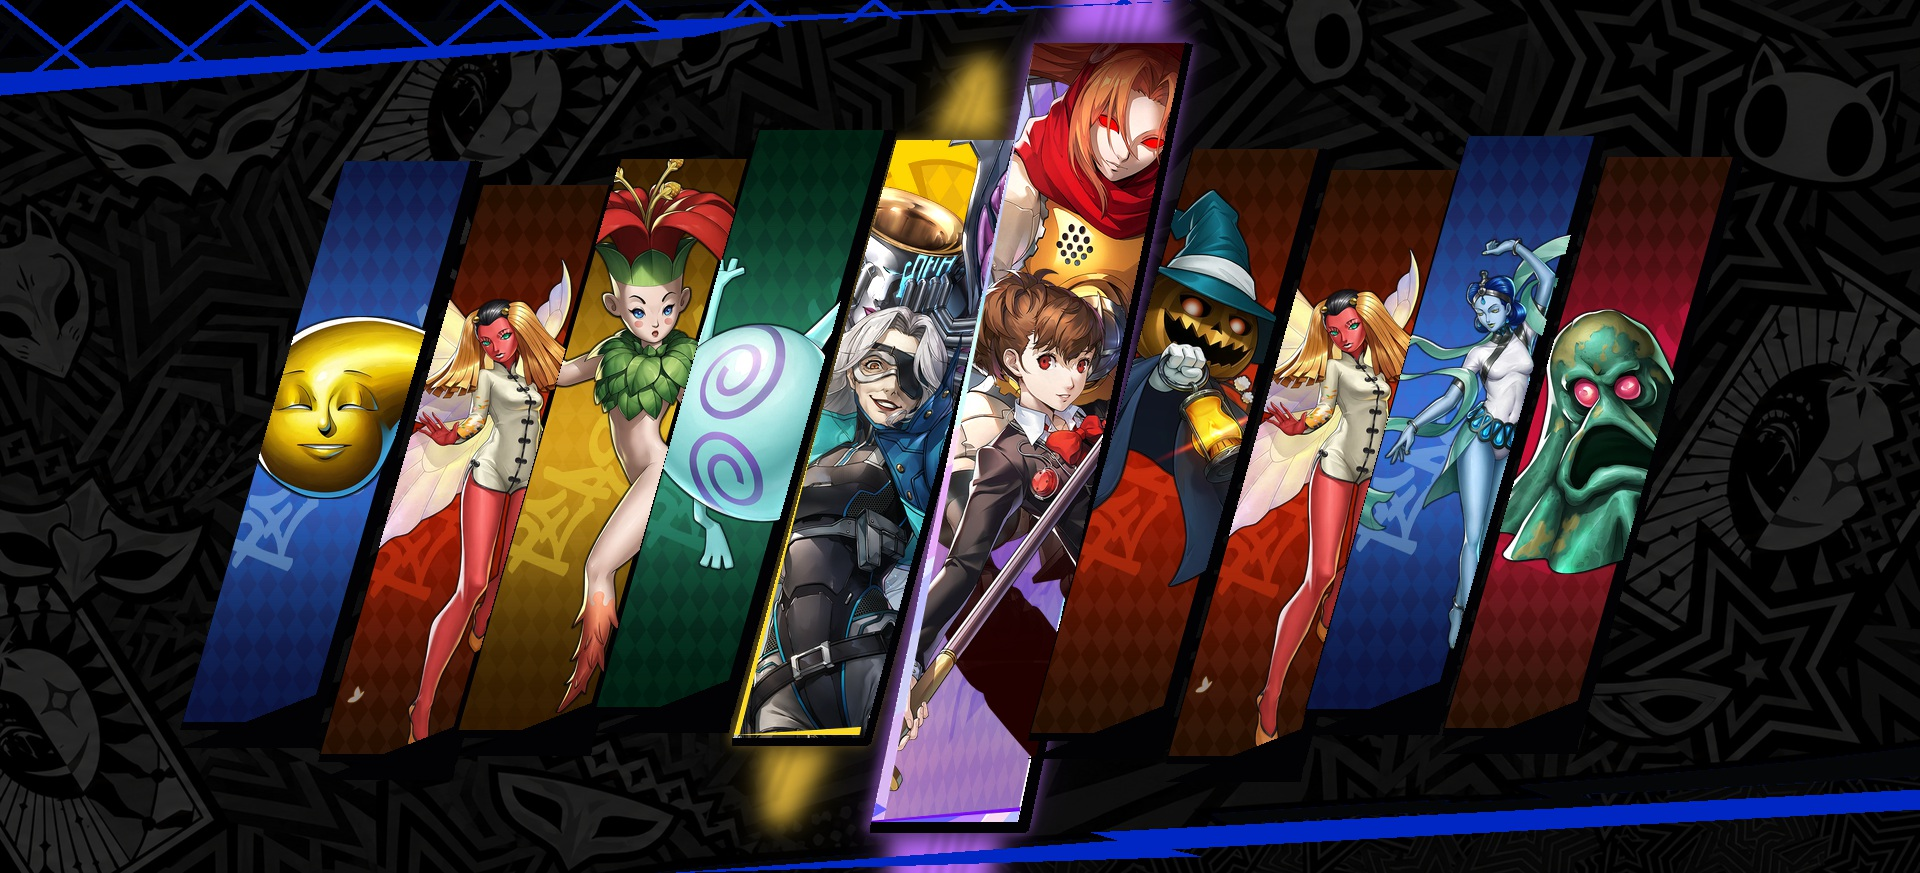
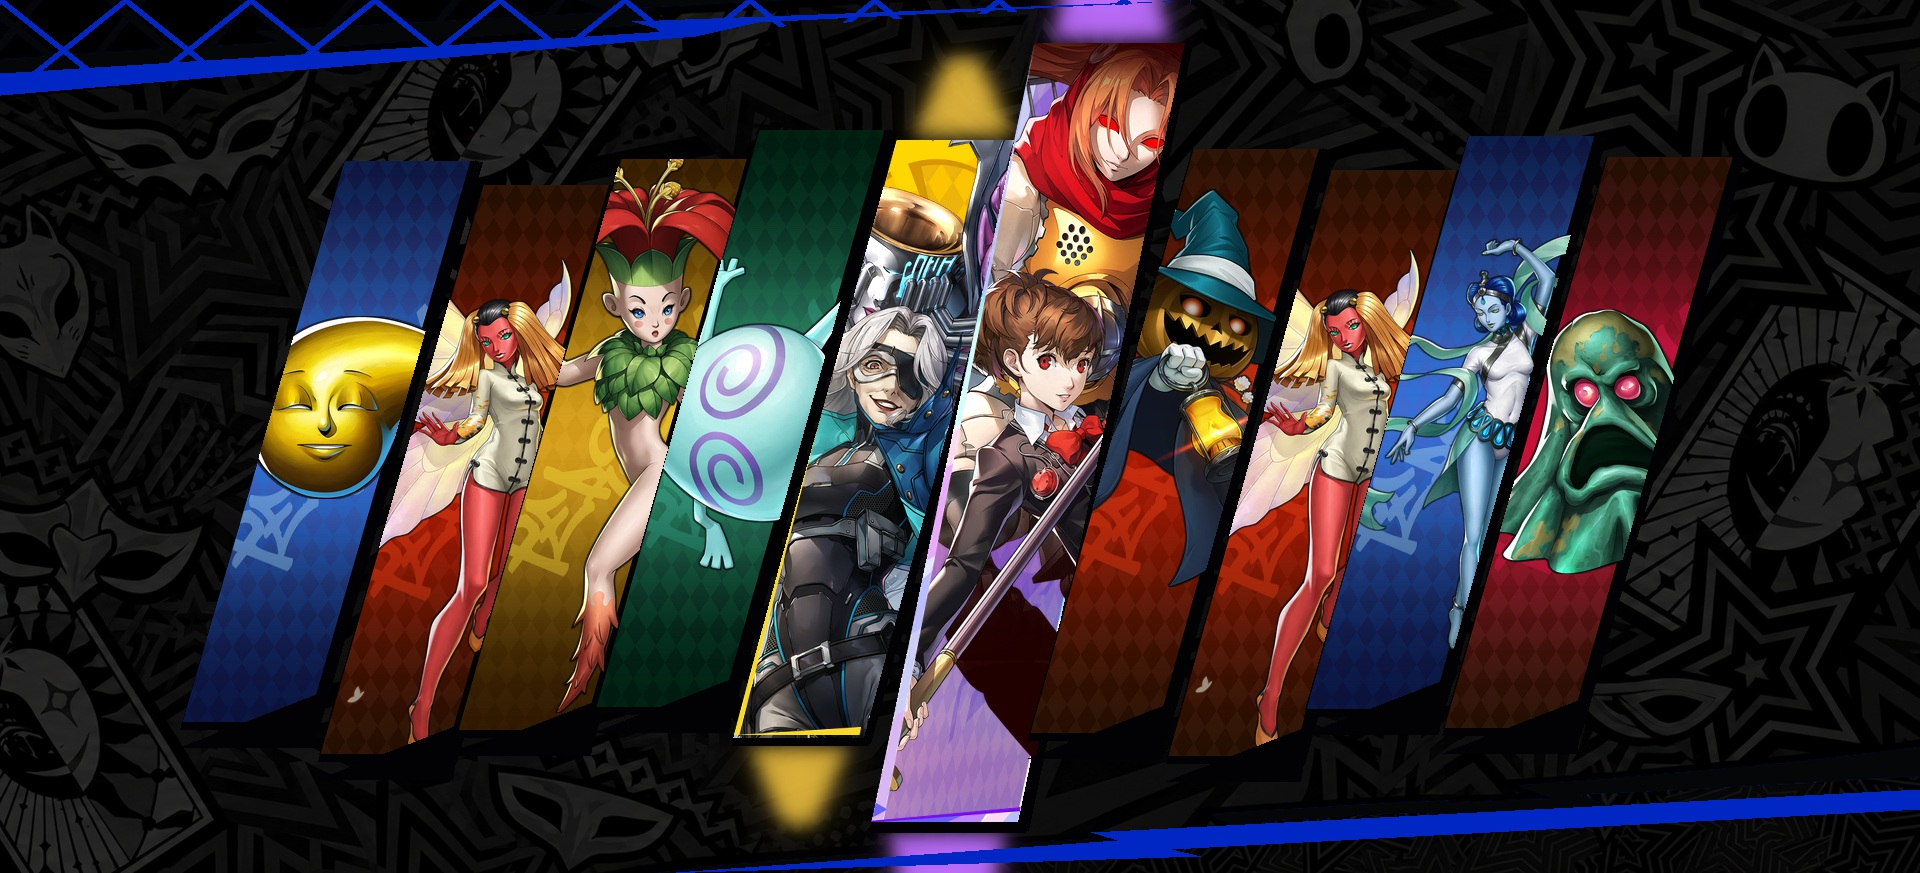
fix: restrict bloom to above and below cards only

diff --git a/src/render/renderer.py b/src/render/renderer.py
@@ -980,58 +980,46 @@ class Renderer:
         return segments + ((1, .32+phase*.08, .46+phase*.08),) if rarity >= 5 else segments
 
     def _five_flare(self, canvas, geometry, scale, rarity=5, item_id="", slot=0):
-        """只在卡片外轮廓产生柔和泛光，卡面内部 alpha 严格为零。"""
+        """泛光仅存在于卡片顶边以上和底边以下，不产生左右侧光晕。"""
         if rarity < 4:
             return
-        points=[(x*scale,y*scale) for x,y in geometry.quad]
-        color=CARD_LIGHTING[5 if rarity>=5 else 4]["tint"]
-        padding=round(95*scale)
-        x0=max(0,int(min(x for x,y in points))-padding)
-        y0=max(0,int(min(y for x,y in points))-padding)
-        x1=min(canvas.width,int(max(x for x,y in points))+padding+1)
-        y1=min(canvas.height,int(max(y for x,y in points))+padding+1)
-        if x1<=x0 or y1<=y0:
-            return
-        local=[(x-x0,y-y0) for x,y in points]
-        source=Image.new("RGBA",(x1-x0,y1-y0))
-        draw=ImageDraw.Draw(source)
-        draw.line(local+[local[0]],fill=(*color,190 if rarity>=5 else 155),
-                  width=max(5,round((17 if rarity>=5 else 13)*scale)),joint="curve")
-        inside=Image.new("L",source.size)
-        ImageDraw.Draw(inside).polygon(local,fill=255)
-        outside=ImageChops.invert(inside)
-        for radius in (25,7):
-            glow=source.filter(ImageFilter.GaussianBlur(radius*scale))
-            glow.putalpha(ImageChops.multiply(glow.getchannel("A"),outside))
-            canvas.alpha_composite(glow,(x0,y0))
+        lighting=CARD_LIGHTING[5 if rarity>=5 else 4]
+        color=lighting["tint"]
+        reach=lighting["reach"]*scale
+        top=geometry.quad[0][1]*scale
+        bottom=geometry.quad[3][1]*scale
+        for a,b,sign in ((geometry.quad[0],geometry.quad[1],-1),
+                         (geometry.quad[3],geometry.quad[2],1)):
+            cx=(a[0]+b[0])*.5*scale
+            y=a[1]*scale
+            half=geometry.width*scale*.43
+            pad=round(75*scale)
+            x0=max(0,int(cx-half)-pad)
+            x1=min(canvas.width,int(cx+half)+pad+1)
+            y0=max(0,int(min(y,y+sign*reach))-pad)
+            y1=min(canvas.height,int(max(y,y+sign*reach))+pad+1)
+            if x1<=x0 or y1<=y0:
+                continue
+            source=Image.new("RGBA",(x1-x0,y1-y0))
+            draw=ImageDraw.Draw(source)
+            draw.polygon([(cx-half-x0,y-y0),(cx+half-x0,y-y0),
+                          (cx+half*.32-x0,y+sign*reach-y0),
+                          (cx-half*.32-x0,y+sign*reach-y0)],
+                         fill=(*color,lighting["haze_alpha"]))
+            for radius in (26,10):
+                glow=source.filter(ImageFilter.GaussianBlur(radius*scale))
+                alpha=glow.getchannel("A")
+                # 严格清除顶底之间整条水平带，模糊也不能泄漏到左右侧。
+                ImageDraw.Draw(alpha).rectangle((0,max(0,int(top)-y0),
+                                                 glow.width,min(glow.height,int(bottom)-y0)),fill=0)
+                glow.putalpha(alpha)
+                canvas.alpha_composite(glow,(x0,y0))
 
     def _high_star_backlight(self, canvas, geometries, results, scale):
-        """卡外顶底光束先画在背景上，所有底版及黑衬底均遮挡它。"""
-        haze = Image.new("RGBA", canvas.size)
-        rays = Image.new("RGBA", canvas.size)
-        hd, rd = ImageDraw.Draw(haze), ImageDraw.Draw(rays)
-        for slot, (geo, result) in enumerate(zip(geometries, results)):
-            if result.rarity < 4:
-                continue
-            self._five_flare(canvas, geo, scale, result.rarity, result.item.id, slot)
-            lighting = CARD_LIGHTING[5 if result.rarity >= 5 else 4]
-            color = lighting["tint"]
-            reach = lighting["reach"] * scale
-            for end in (0, 1):
-                a, b = (geo.quad[0], geo.quad[1]) if end == 0 else (geo.quad[3], geo.quad[2])
-                cx, y = (a[0]+b[0])*.5*scale, a[1]*scale
-                sign = -1 if end == 0 else 1
-                dx = -sign * 22 * scale
-                half = geo.width * scale * (.43 if result.rarity >= 5 else .32)
-                hd.polygon([(cx-half,y),(cx+half,y),(cx+dx+half*.4,y+sign*reach),
-                            (cx+dx-half*.4,y+sign*reach)], fill=(*color,lighting["haze_alpha"]))
-                for n in range(4 if result.rarity>=5 else 2):
-                    x = cx+(n-1.5)*13*scale + (slot%3)*4*scale
-                    rd.line([(x,y),(x+dx,y+sign*reach*(.55+.1*((slot+n)%4)))],
-                            fill=(*color,160 if result.rarity >= 5 else 125), width=max(1,round(2*scale)))
-        canvas.alpha_composite(haze.filter(ImageFilter.GaussianBlur(max(2,int(28*scale)))))
-        canvas.alpha_composite(haze.filter(ImageFilter.GaussianBlur(max(2,int(12*scale)))))
-        canvas.alpha_composite(rays.filter(ImageFilter.GaussianBlur(max(1.5,scale*2.5))))
+        """只在卡片顶端与底端背后绘制泛光。"""
+        for slot,(geo,result) in enumerate(zip(geometries,results)):
+            if result.rarity>=4:
+                self._five_flare(canvas,geo,scale,result.rarity,result.item.id,slot)
 
     def _result_card(self, result: PullResult, geometry: CardGeometry, scale: float, art_layer: bool = True,
                      slot: int = 0, with_reward: bool = True, base_alpha: int = 255):

diff --git a/tests/test_renderer.py b/tests/test_renderer.py
@@ -417,3 +417,16 @@ def test_external_glow_never_overlays_card_faces(registry,renderer,monkeypatch):
             for f in (.2,.4,.6,.8):
                 x=int(left+geo.width*f)
                 assert lit.getpixel((x,y))==plain.getpixel((x,y))
+
+
+def test_bloom_has_no_light_on_left_or_right_sides(renderer):
+    from PIL import Image
+    geometry=foundation_geometry(4,5)
+    for rarity in (4,5):
+        effect=Image.new('RGBA',(DESIGN_W,DESIGN_H))
+        renderer._five_flare(effect,geometry,1,rarity)
+        alpha=effect.getchannel('A')
+        top=int(geometry.quad[0][1])
+        bottom=int(geometry.quad[3][1])
+        assert alpha.crop((0,top,DESIGN_W,bottom+1)).getbbox() is None
+        assert alpha.getbbox() is not None

diff --git a/UPDATE-v0.3.5.md b/UPDATE-v0.3.5.md
@@ -2,5 +2,5 @@
 
 - 调整已有金色／紫色光效，采用近处柔亮与外围扩散双层泛光，强化发光感。
 - 去掉程序叠加的星形、碎钻与锐利短线装饰，保留原生品质框。
-- 所有程序泛光只在卡片背后与外侧绘制，卡面内部不叠加光效。保留原生品质框、低星原色和黑色分隔。
+- 所有程序泛光只在卡片顶部以上与底部以下绘制，左右两侧和卡面内部都不叠加光效。保留原生品质框、低星原色和黑色分隔。
 - 单抽、十连和批量合图统一使用新版效果；抽卡业务规则不变。
